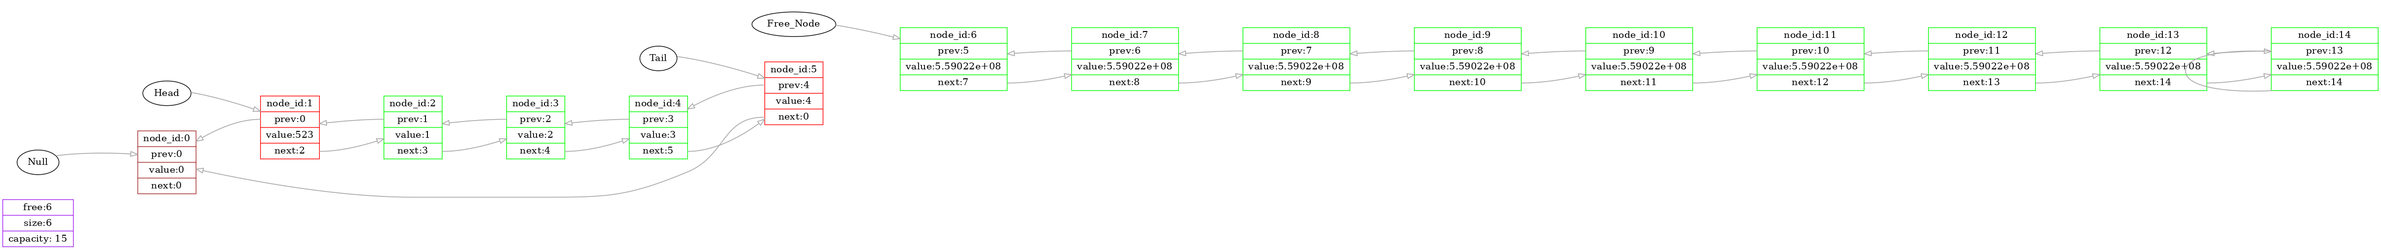
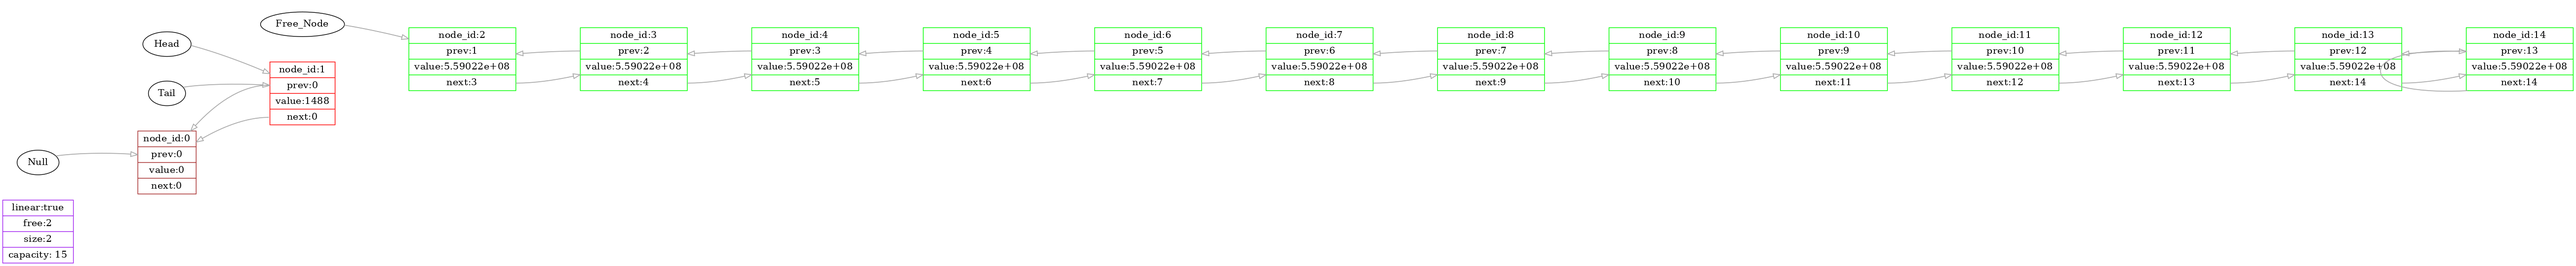
seems like it works i guess

diff --git a/src/list_functions.cpp b/src/list_functions.cpp
@@ -34,13 +34,16 @@ int ListPushHead(List *list, elem_t value) {
         ListResize(list, list->size + AdditionalMemory);
     }
 
-    int new_head_id = list->free_node;
+    list->list_is_linear = false;
+    int new_head_id      = list->free_node;
 
     list->data[new_head_id].number = value;
     list->data[new_head_id].prev = 0;
 
     if (list->size == ListInitSize) {
-        list->tail = new_head_id;
+
+        list->list_is_linear = true;
+        list->tail           = new_head_id;
     }
 
     list->data[list->head].prev = list->free_node;
@@ -51,7 +54,6 @@ int ListPushHead(List *list, elem_t value) {
     list->head = new_head_id;
 
     list->size++;
-    list->list_is_linear = false;
 
     return value;
 }
@@ -484,8 +486,8 @@ void ListGraph(List *list) {
     PrintDot(dot_header);
 
     // General list information
-    PrintDot("List_Inform [shape = record, color = purple, style = solid, label = \"free:%d | size:%d | capacity: %d\"]\n\n",
-             list->free_node, list->size, list->capacity);
+    PrintDot("List_Inform [shape = record, color = purple, style = solid, label = \"linear:%s | free:%d | size:%d | capacity: %d\"]\n\n",\
+            list->list_is_linear == true? "true":"false", list->free_node, list->size, list->capacity);
 
     PrintDot("node%d [shape = record, color = brown, style = solid, label = \"node_id:%d|<p> prev:%d| value:%d|<n>next:%d\"]\n",
              0, 0, Null_Node, Null_Elem, Null_Node);
@@ -528,13 +530,12 @@ void ListGraph(List *list) {
     for (int i = list->size; i < list->capacity; i++, node_ptr = list->data[node_ptr].next) {
         PrintDot("-> node%d ", node_ptr);
     }
-    // PrintDot("Head -> Tail -> Free_Node -> Null\n")
     PrintDot("\nHead -> node%d\n", list->head);
     PrintDot("Tail -> node%d\n", list->tail);
     PrintDot("Free_Node -> node%d\n", list->free_node);
     PrintDot("Null -> node%d\n", Null_Node);
+    
     // making visible connections
-
     PrintDot("edge[style=solid, constraint = false]")
     PrintDot("node%d:p -> node%d;", list->head, Null_Elem);
     PrintDot("node%d:n ", list->head);
@@ -571,17 +572,11 @@ void ListGraph(List *list) {
     }
     PrintDot(" -> node%d\n", node_id);
 
-    // PrintDot("\n{rank = same; \"Head\"; \"Tail\"; \"Free\"; \"Null\";}\n");
-    // PrintDot("{rank = same; \"Head\"; node%d}\n", list->head);
-    // PrintDot("{rank = same; \"Tail\"; node%d}\n", list->tail);
-    // PrintDot("{rank = same; \"Free\"; node%d}\n", list->free_node);
-    // PrintDot("{rank = same; \"Null\"; node%d}\n", Null_Node);
     PrintDot("Head -> node%d\n", list->head);
     PrintDot("Tail -> node%d\n", list->tail);
     PrintDot("Free_Node -> node%d\n", list->free_node);
     PrintDot("Null -> node%d\n", Null_Node);
     PrintDot("}\n");
-
 
     char dot_png[Max_Dot_Command_Len] = "";
 

diff --git a/src/main.cpp b/src/main.cpp
@@ -7,60 +7,43 @@ int main() {
     List list = {};
     ListConstructor(list, 15);
 
-    ListPushHead(&list, 523);
-    for (int i = 1; i < 5; i++) {
-        ListPushRight(&list, list.tail, i);
-    }
-    // ListDump(list);
-    //    for (int i = 0; i < list.capacity; i++) {
-    //     PrintElementInfo(&list, i);
-    // }
-    // printf("[] = %d\n", FindFirstListElem(&list, 4));
-    for (int i = 1; i < 9; i++) {
+    ListPushHead(&list, 1488);
     ListDump(list);
 
-        ListPushRight(&list, list.tail, i + 4);
-    }
+    ListPushTail(&list, 2000);
+    ListDump(list);
 
-    // // ListDump(list);
+    ListPushRight(&list, 1, 2200);
+    ListDump(list);
+
+    ListPushLeft(&list, 2, 2700);
+    ListDump(list);
+
+    ListPushTail(&list, 3000);
+    ListDump(list);
+
+    ListPushTail(&list, 4000);
+    ListDump(list);
+
+    ListDeleteNode(&list, list.tail);
+    ListDump(list);
+
+    ListDeleteNode(&list, list.head);
+    ListDump(list);
+
+    ListPushTail(&list, 5000);
+    ListDump(list);
+
+    ListPushHead(&list, 6000);
+    ListDump(list);
+
+    ListPushTail(&list, 7000);
+    ListPushTail(&list, 7000);
+    ListDump(list);
 
     ListLinerize(&list);
-
     ListDump(list);
 
-    int ls_size = list.size;
-
-    // for (int i = 0; i < ls_size - 1; i++) {
-    //     printf("list.head = %d\n", list.head);
-    //     printf("list.tail = %d\n", list.tail);
-    //     ListDeleteNode(&list, list.head);
-    // }
-       for (int i = 0; i < list.capacity; i++) {
-        PrintElementInfo(&list, i);
-    }
-    // ListLinerize(&list);
-    // ListDump(list);
-    // int x = list.head;
-    // printf("Phys_id[%d] = %d\n", x, FindPhysAddress(&list, x));
-    // printf("Logic  [%d] = %d\n", x, FindLogicAddress(&list, x));
-    // printf("List is linear = %d\n", list.list_is_linear);
-
-
-    // ListResize(&list, 10);
-    // ListDump(list);
-
-    // for (int i = 0; i < list.capacity; i++) {
-    //     PrintElementInfo(&list, i);
-    // }
-    // ListResize(&list, 100);
-    // for (int i = 1; i < 5; i++) {
-    //     ListPushLeft(&list, list.head, 700*(i + 1));
-    // }
-    // ListDump(list);
-
-    // for (int i = 0; i < list.capacity; i++) {
-    //     PrintElementInfo(&list, i);
-    // }
     ListDestructor(list);
 
     return 0;

diff --git a/includes/list.h b/includes/list.h
@@ -10,7 +10,7 @@
 #include "defines.h"
 
 typedef double elem_t;
-const int Max_Dot_Command_Len = 100;
+const int Max_Dot_Command_Len = 150;
 
 typedef struct {
 
